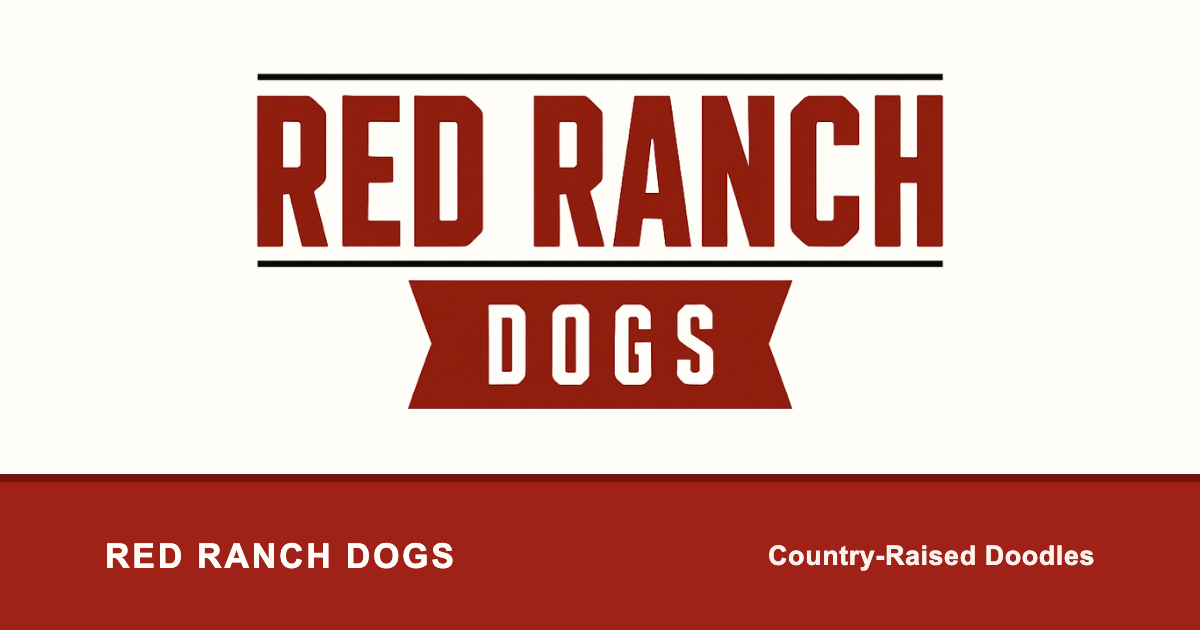
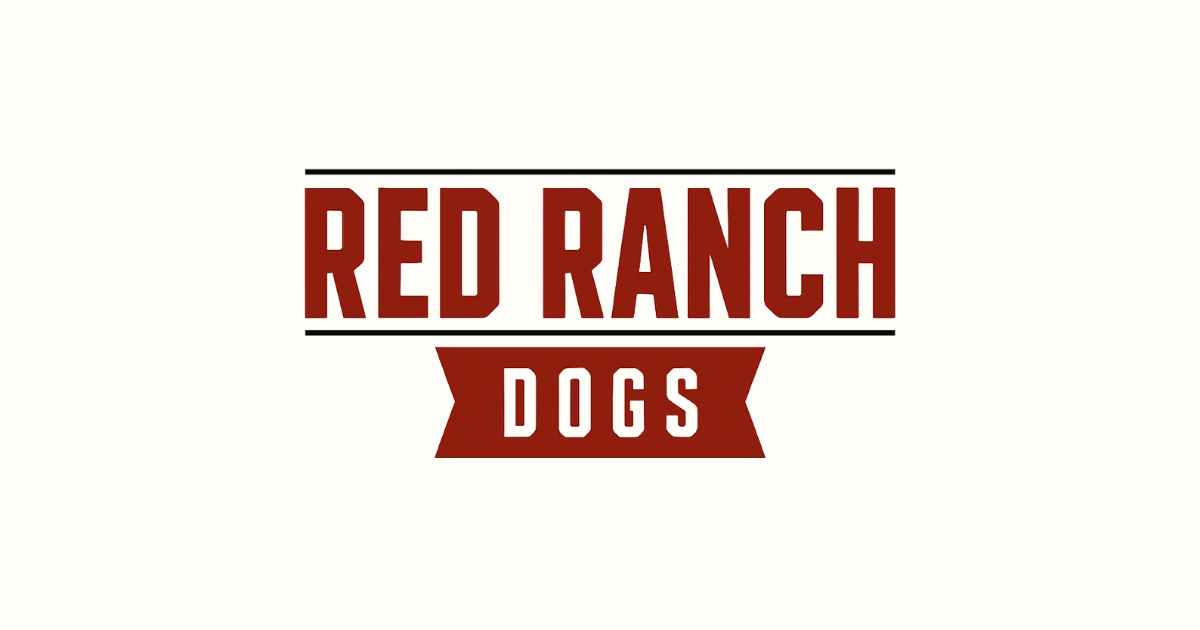
Clean up link preview artwork

diff --git a/index.html b/index.html
@@ -25,7 +25,7 @@
     <meta property="og:url" content="https://www.redranchdogs.com/" />
     <meta property="og:image" content="https://www.redranchdogs.com/images/seed/red-ranch-dogs-link-preview.png" />
     <meta property="og:image:secure_url" content="https://www.redranchdogs.com/images/seed/red-ranch-dogs-link-preview.png" />
-    <meta property="og:image:alt" content="Red Ranch Dogs logo on a white background with a red footer band" />
+    <meta property="og:image:alt" content="Red Ranch Dogs logo on a clean white background" />
     <meta name="twitter:card" content="summary_large_image" />
     <meta name="twitter:title" content="Red Ranch Dogs | Country Raised Doodles" />
     <meta
@@ -33,7 +33,7 @@
       content="Country-raised Goldendoodle, Cavapoo, and Bernedoodle puppies from Red Ranch Dogs in Salado, Texas."
     />
     <meta name="twitter:image" content="https://www.redranchdogs.com/images/seed/red-ranch-dogs-link-preview.png" />
-    <meta name="twitter:image:alt" content="Red Ranch Dogs logo on a white background with a red footer band" />
+    <meta name="twitter:image:alt" content="Red Ranch Dogs logo on a clean white background" />
     <meta name="theme-color" content="#9f2118" />
     <link rel="alternate" type="text/plain" title="Red Ranch Dogs AI search summary" href="/llms.txt" />
     <link rel="manifest" href="/site.webmanifest" />
